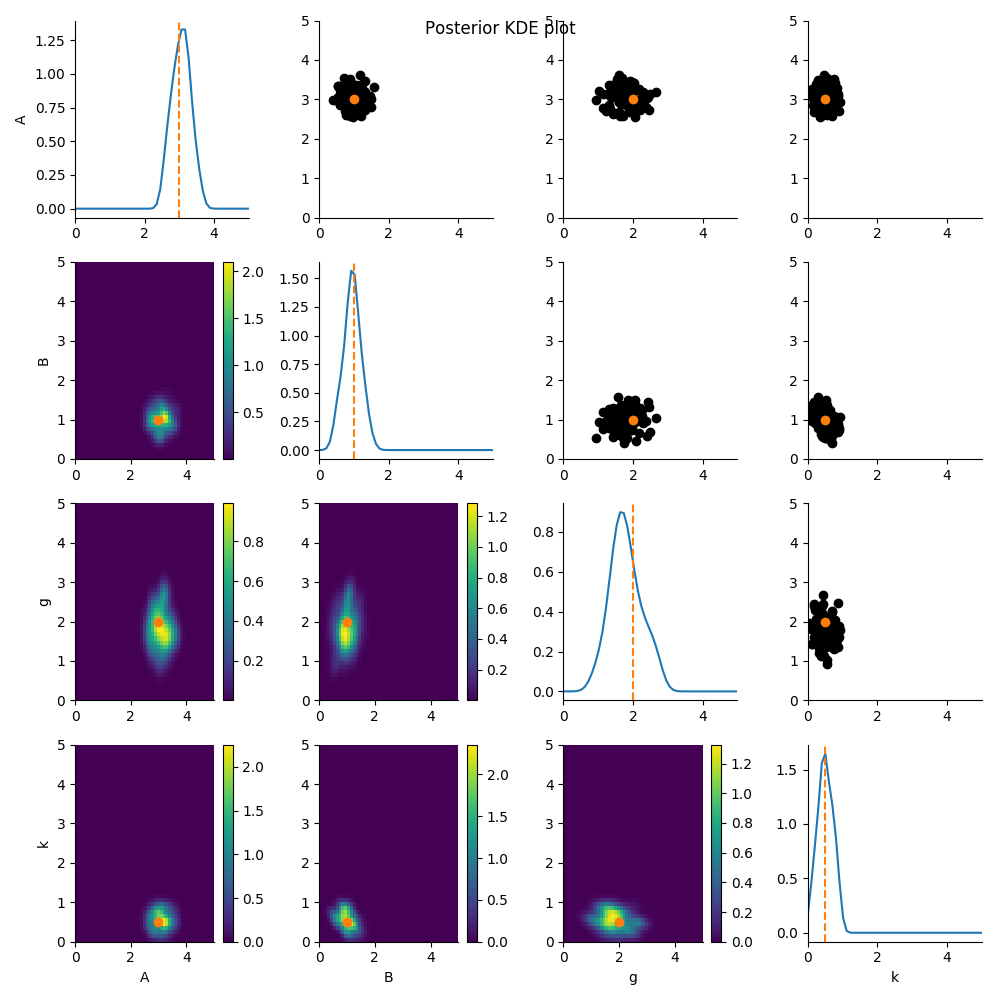
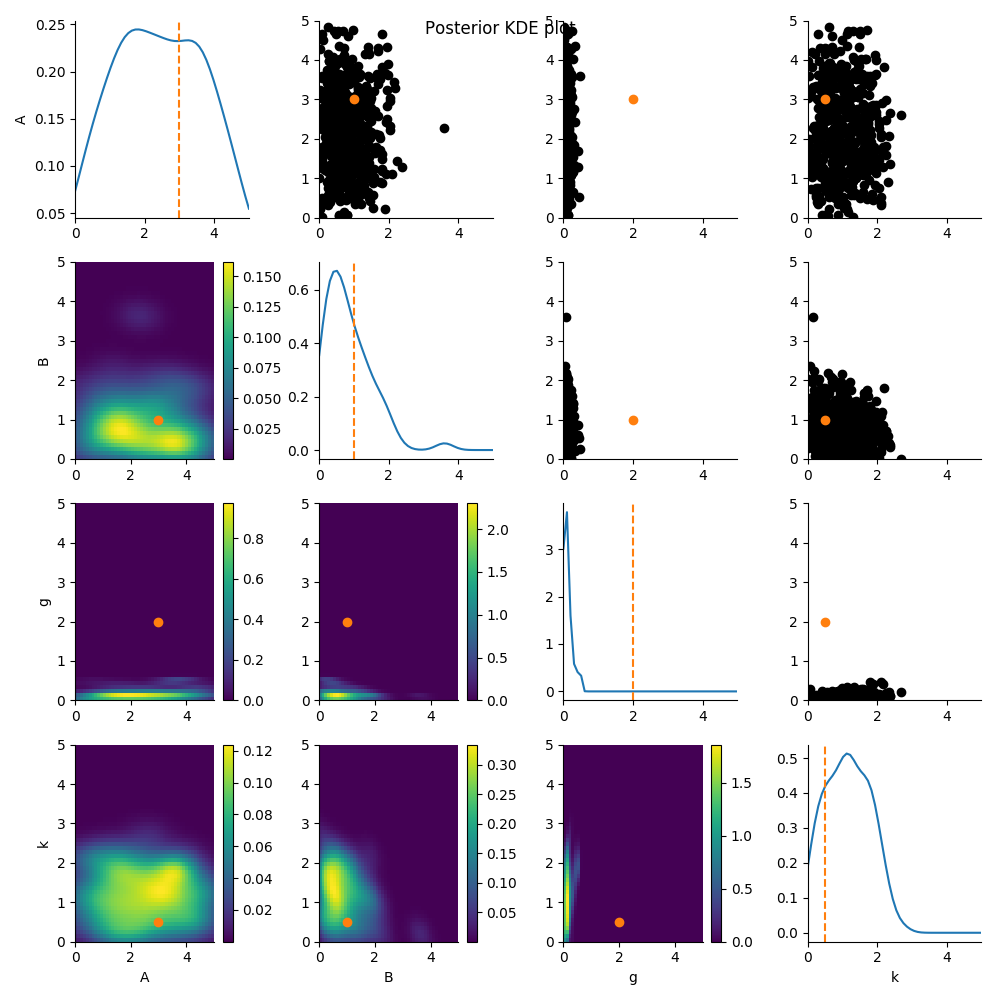
ran gk

diff --git a/pyabc_tests/gk/model.py b/pyabc_tests/gk/model.py
@@ -110,7 +110,7 @@ prior = pyabc.Distribution(**{key: pyabc.RV('uniform', prior_lb, prior_ub)
 distance = pyabc.AdaptivePNormDistance()
 sampler = pyabc.sampler.MulticoreEvalParallelSampler(n_procs=6)
 max_nr_populations = 10
-pop_size = 100
+pop_size = 500
 
 # visualize
 
